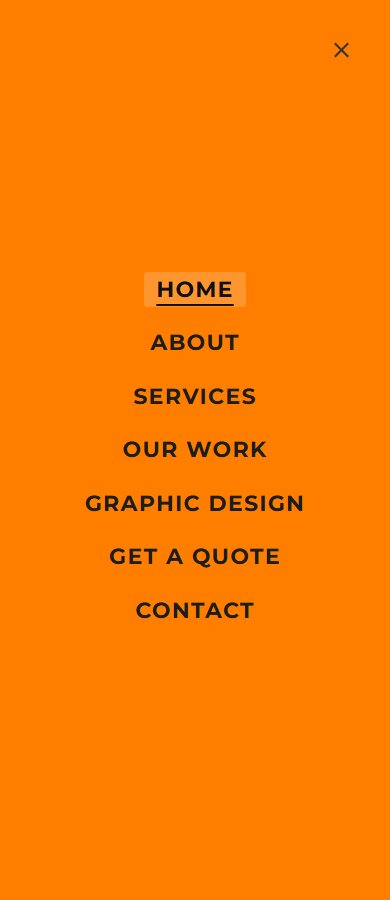
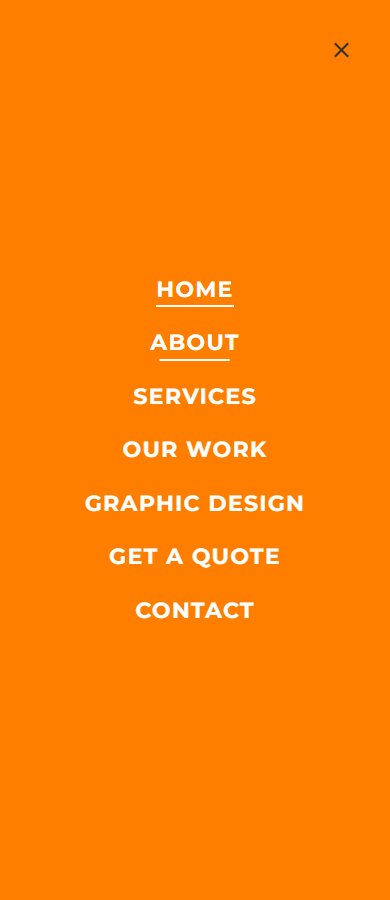
Use white compact-menu text with center-out hover underlines

Changed region(s): [[0.2154, 0.3733, 0.7692, 0.6844], [0.3692, 0.28, 0.6462, 0.3422]]

diff --git a/public/assets/styles/site.css b/public/assets/styles/site.css
@@ -13,14 +13,17 @@ body { overflow-x:hidden; }
 .nsp-stuck .nsp-logo { width:215.24px; }
 .nsp-stuck .nsp-logo img { height:60px; }
 .znpb-footer-smart-area a[href^="mailto:"] { color:inherit; }
+/* Contact page's orange contact-details strip. */
+#eluiddc2f4b0b a[href^="mailto:"] { color:#fff; }
 .nsp-menu-toggle { border:0; background:none; color:#aaa; padding:14px; cursor:pointer; transition:color .2s ease-out; }
 .nsp-menu-toggle:hover { color:#fff; }
 .nsp-menu-toggle span { display:block; height:2px; width:19px; background:currentColor; margin:4px 0; transition:transform .2s ease-out,opacity .2s ease-out; }
 #nsp-menu { position:fixed; inset:0; overflow-y:auto; background:#ff7e00; display:flex; flex-direction:column; justify-content:center; justify-content:safe center; align-items:center; gap:18px; padding:70px 25px; }
-#nsp-menu a { display:block; padding:4px 12px; border-radius:3px; font:700 clamp(22px,3.4vw,34px)/1.25 Montserrat,sans-serif; color:#1d1d1d; text-transform:uppercase; letter-spacing:.06em; transition:color .2s ease-out,background-color .2s ease-out; }
-#nsp-menu a:hover,#nsp-menu a[aria-current] { color:#111; background:#ffffff2e; }
-#nsp-menu a[aria-current] { text-decoration:underline; text-underline-offset:7px; text-decoration-thickness:2px; }
-#nsp-menu a:focus-visible { outline-color:#1d1d1d; }
+#nsp-menu a { position:relative; display:block; padding:4px 12px; border-radius:3px; font:700 clamp(22px,3.4vw,34px)/1.25 Montserrat,sans-serif; color:#fff; background:transparent; text-transform:uppercase; letter-spacing:.06em; text-decoration:none; transition:color .2s ease-out,background-color .2s ease-out; }
+#nsp-menu a:hover,#nsp-menu a[aria-current] { color:#fff; background:transparent; }
+#nsp-menu a::after { content:""; position:absolute; left:12px; right:12px; bottom:0; height:2px; background:currentColor; transform:scaleX(0); transform-origin:center; transition:transform .25s ease-out; }
+#nsp-menu a:hover::after,#nsp-menu a:focus-visible::after { transform:scaleX(1); }
+#nsp-menu a:focus-visible { outline-color:#fff; }
 .nsp-menu-toggle[aria-expanded=true] { position:fixed; top:25px; right:25px; z-index:102; color:#333; }
 .nsp-menu-toggle[aria-expanded=true] span:first-child { transform:translateY(6px) rotate(45deg); }
 .nsp-menu-toggle[aria-expanded=true] span:nth-child(2) { opacity:0; }
@@ -32,6 +35,7 @@ body { overflow-x:hidden; }
   #nsp-menu { position:static; inset:auto; flex:0 0 auto; flex-direction:row; gap:4px; padding:0; background:transparent; overflow:visible; }
   #nsp-menu a { padding:8px 10px; font-size:13px; line-height:1.4; text-transform:none; letter-spacing:0; color:#eee; white-space:nowrap; }
   #nsp-menu a:hover,#nsp-menu a[aria-current] { color:#fff; background:#ff7e00; text-decoration:none; }
+  #nsp-menu a::after { display:none; }
   #nsp-menu a:focus-visible { outline-color:#ff7e00; }
 }
 .skip-link { position:fixed; left:10px; top:-100px; z-index:200; padding:12px; background:#fff; color:#111; }

diff --git a/docs/migration-status.md b/docs/migration-status.md
@@ -98,3 +98,11 @@ The owner requested one final refinement to the same Pages review update: fixed 
 - Removed the standalone `. ` span after the copyright text in every footer; no business copy or other source-site issues were changed.
 
 `scripts/qa-navigation.mjs` passed eleven widths from 320 to 2200px, initial/scrolled desktop fitting, orange/charcoal overlay styling, keyboard focus wrapping and Escape, resize mode changes, separate lightbox scroll-lock preservation, and exact copyright endings on all 15 routes. The updated viewer checks passed unchanged-position assertions alongside navigation/closing behavior at 1440/768/390/320px. [Desktop menu capture](evidence/navigation-desktop.jpg), [compact menu capture](evidence/navigation-mobile.jpg), and [navigation measurements](evidence/navigation-results.json) record the results. All 45 responsive page checks, isolated browser form interactions, 20 mocked server-form tests, focused hover/header/masonry regressions, static checks, and the build passed again. This is a continuation of the authorized Pages review update; domain cutover and real email remain outside scope.
+
+## White compact-menu text and contact email — 2026-10-27
+
+At the owner's request, compact-menu labels are now white with their existing 700 weight, sizing, and orange panel. The pale hover/current-link rectangles are removed. A white 2px underline scales from zero to full text width around its center on hover or keyboard focus; its intermediate transform and centered origin are verified in Edge. The desktop navigation retains its existing active-button treatment. Keyboard focus outlines remain visible.
+
+The email link in the contact page's orange information strip is now white, scoped to that strip so the separate link on the light section and footer keep their existing colors. The address, mailto destination, forms, and other content are unchanged.
+
+Updated navigation checks passed at eleven widths, including actual underline interpolation at compact desktop/mobile sizes, white text and unchanged font weight, transparent hover backgrounds, keyboard/resize/scroll-lock behavior, and all footer endings. Contact-strip email color and the unchanged readable lower link were checked at 1440/768/390px. Static checks, the 20 mocked server-form tests, and the build pass. All 45 responsive page checks and isolated browser form/menu/gallery interactions passed again, with no JavaScript exceptions or broken images. [Menu capture](evidence/navigation-mobile.jpg), [contact-strip capture](evidence/contact-strip.jpg), and [navigation measurements](evidence/navigation-results.json) record verification before publishing this continuation of the authorized review update.

diff --git a/README.md b/README.md
@@ -21,7 +21,7 @@ Our Work uses a small masonry routine in `site.js`; its columns and animated pos
 
 The image viewer has a transparent stage over a dark backdrop, circular chevrons fixed to the viewer's side rails, a top-right X, and keyboard navigation. Arrows stay at the same screen position between photos. Its style is in the `.nsp-lightbox` rules in `site.css`.
 
-Navigation shows all seven links on one row from 1100px upward and an orange overlay with bold charcoal text below that width. Keep the breakpoint synchronized between `site.css` and the `wideMenu` query in `site.js`. Mode changes restore the menu's scroll lock without disturbing an open image viewer. The shared copyright line ends at “All rights reserved” without a trailing period.
+Navigation shows all seven links on one row from 1100px upward and an orange overlay with bold white text below that width. Compact-menu hover/focus draws an underline outward from the center without a background highlight. Keep the breakpoint synchronized between `site.css` and the `wideMenu` query in `site.js`. Mode changes restore the menu's scroll lock without disturbing an open image viewer. The shared copyright line ends at “All rights reserved” without a trailing period.
 
 ## Local commands
 

diff --git a/docs/evidence/README.md b/docs/evidence/README.md
@@ -10,6 +10,7 @@ Captured 2026-10-27. **Original on the left; migration on the right.**
 - [Lightbox checks](lightbox-results.json): responsive geometry, navigation, closing, and focus/scroll restoration.
 - [Desktop navigation](navigation-desktop.jpg) and [orange compact menu](navigation-mobile.jpg): local captures of the restored horizontal navigation and updated overlay.
 - [Navigation checks](navigation-results.json): eleven viewport sizes, mode switching, keyboard behavior, scroll locks, and all 15 copyright lines.
+- [Contact details strip](contact-strip.jpg): white email text matching the other details on orange. Navigation checks also record white compact-menu text and intermediate center-out underline values.
 
 The local quote page shows its intentional unavailable message because no provider credentials are configured. That adds height to the form. The old credit appears only in the original-reference half; it is absent from the migrated application. Full-page captures do not reliably paint native fixed backgrounds outside the visible viewport, so those regions also need ordinary scrolling review.
 
